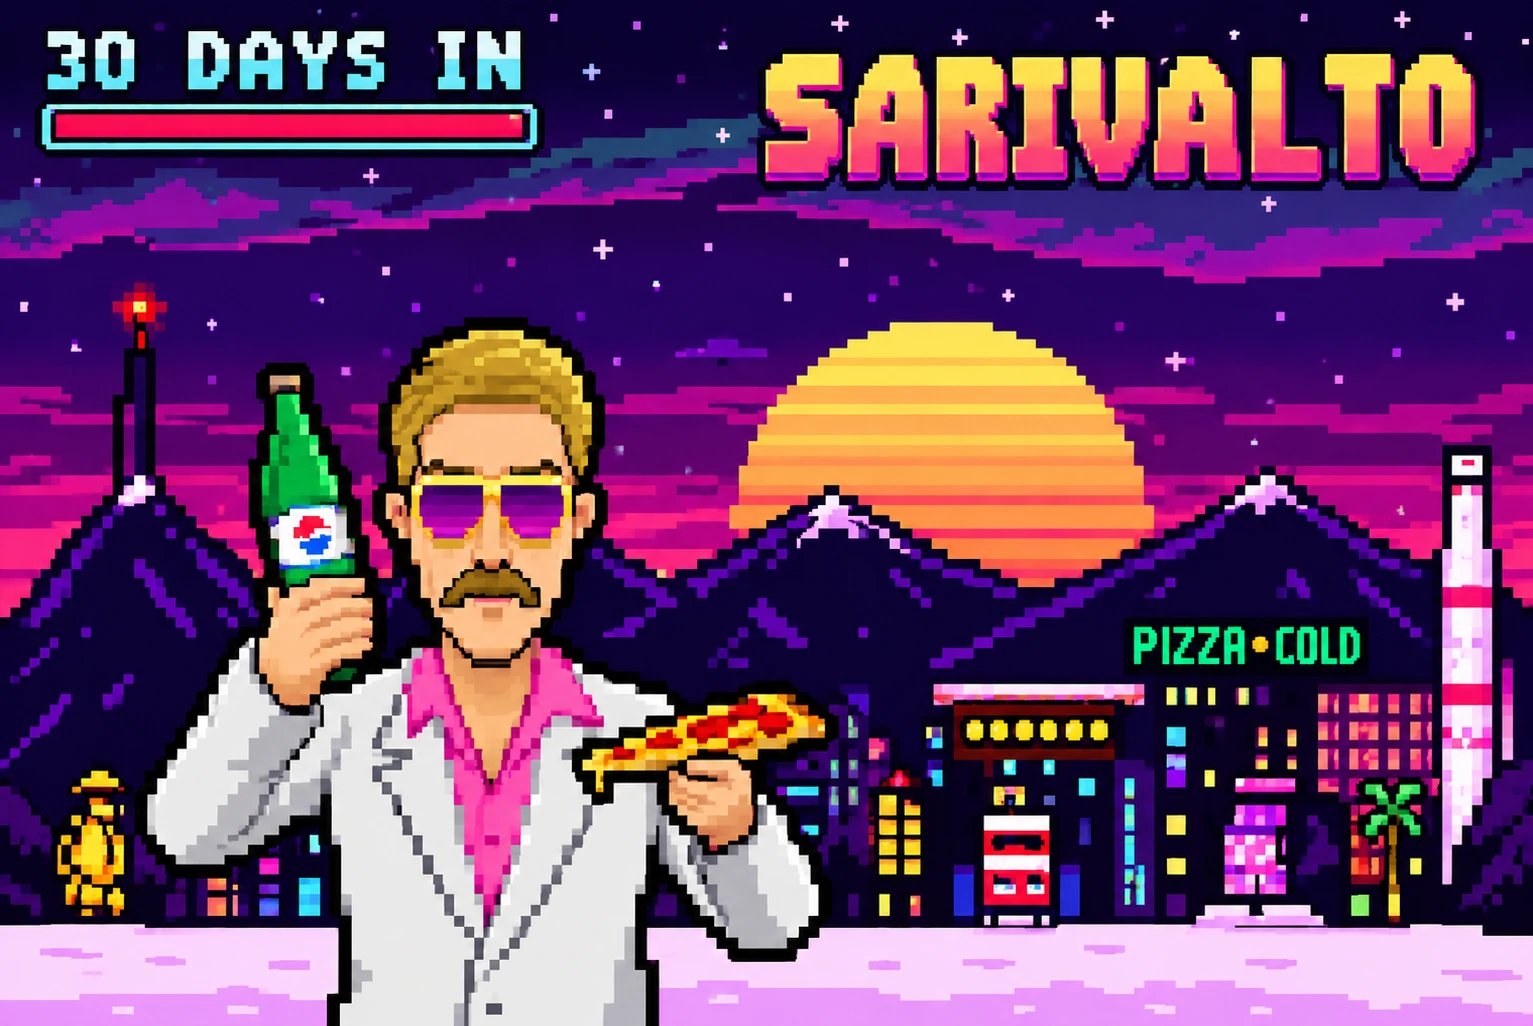
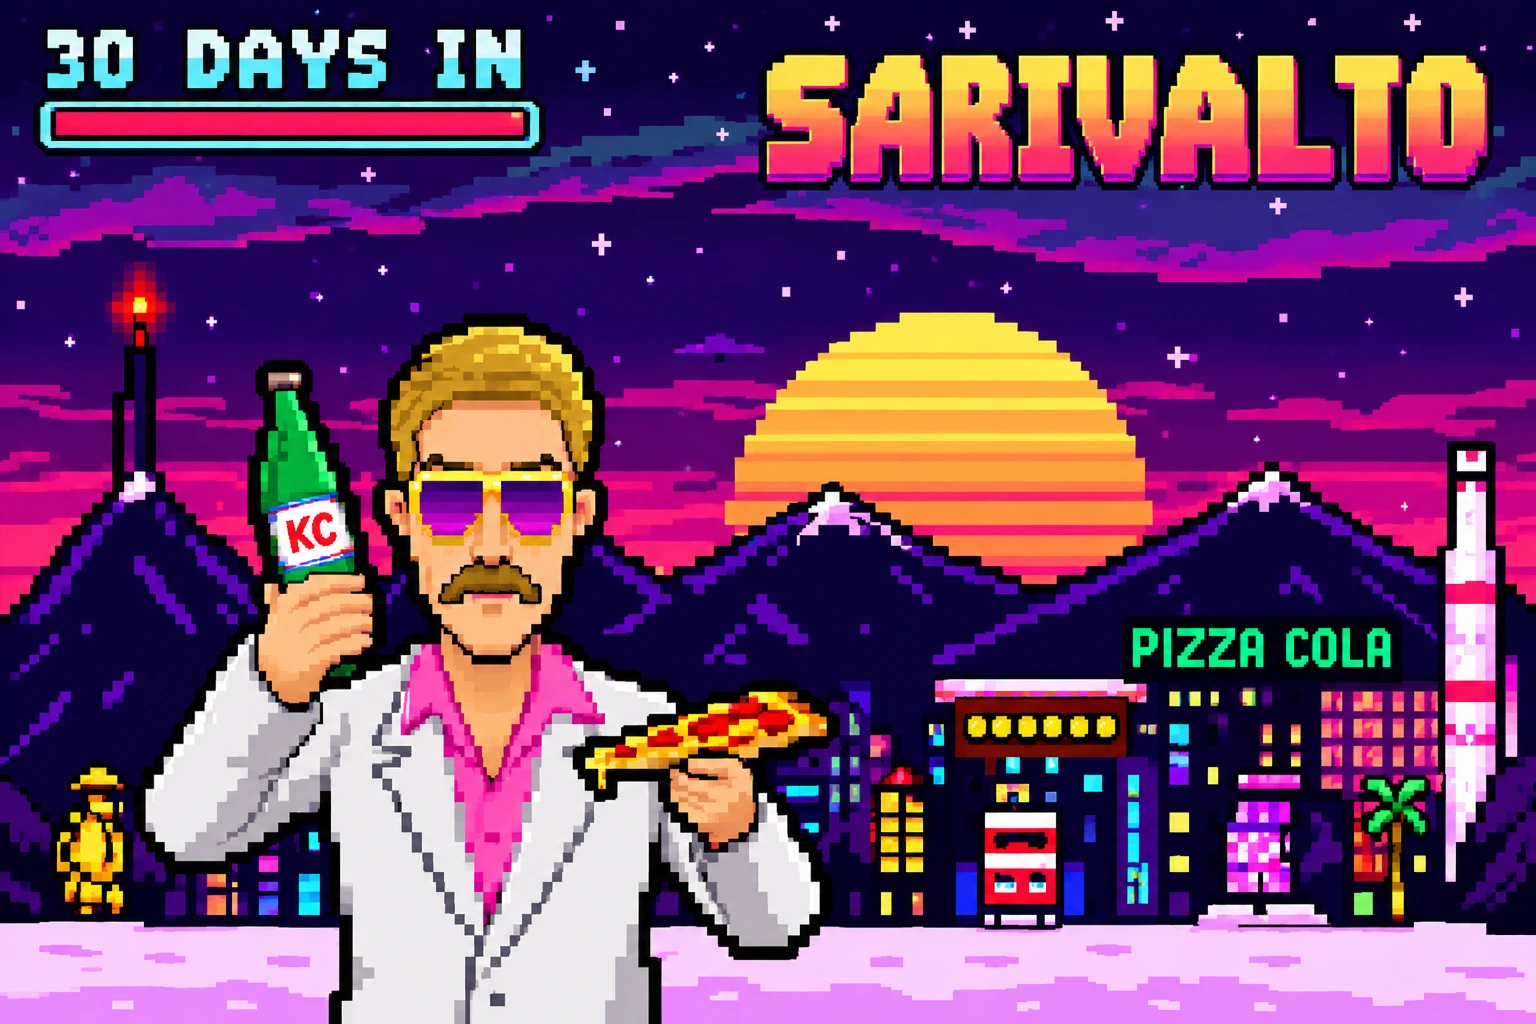
The radio set connects every time: after one call to Langley the tuning never started again, so reporting back to Chuck at the end of Meet the Communists couldn't get through. Once Meet the Communists is done, a tip in the quest news box explains waiting for the evening (sit at a table and press E),

diff --git a/js/data.js b/js/data.js
@@ -826,6 +826,7 @@ Dex:{stock:[['hotdog',30,1],['cola',20,1]]},
 //                        forge a card to match the recipe (that one needs the real card, and gives two forged cards)
 //   tour:name, price     pay that person for a tour, from CIA funds (the condition's chat is the tour; its first node's
 //                        options are made for you: pay, or not now)
+// tip: a note on how the game works, in the quest news box once the quest is complete (after Meet the Communists, how to wait for the evening).
 // note: a few words the wiki's Quests page adds to a step (a point given from its conversation, say).
 // tested: true once the quest has been played through and checked (the wiki's Quests page shows which are; none yet).
 // completed: true once the quest is finished, nothing left to add or fix (the Completed column on the wiki's Quests page).
@@ -1252,6 +1253,7 @@ meetreds:{title:'Meet the Communists',giver:'Chuck',main:true,day:1,given:true,s
       b:{say:"That's what I was afraid of. A true believer's harder to deal with than a man with a price. Good work. Get some sleep: tomorrow, Kingsgrad."},
       c:{say:"She's not wrong, but don't you tell her that. Good work. Get some sleep: tomorrow, Kingsgrad."}}}}],
   thanks:'Chuck has your report on the Communist Party.',
+  tip:"Today's main quest is done, so the day is yours: you can let it go by and wait for the evening. Sit at a table (in a bar, a café, a restaurant, the hotel, or the one in your room) and press E. Evenings are different: shops shut, people go home, The Midnight Note and Madame Zora open, and George at Langley takes over the radio, with jobs that need the dark. When you're done, go to your bed and press E to sleep through to the next morning, when there's a new main quest. (On a day with a main quest, you can't wait for the evening until it's done.)",
   chat:{start:'a',nodes:{
     a:{say:"Comrade! Not many come in from the cold to visit us. What brings you to the Party's door?",opts:[['I want to know what the Party stands for.','b'],["I heard about the king. Everyone's talking about it.",'c'],["I'm a journalist, from abroad.",'d']]},
     b:{say:'Bread, work and dignity for the people of Sarivalto. The king is dead, and the crown should be buried with him. This island should join the Soviet Union, as a Soviet republic, and belong to the fishermen, the mill hands and the women on the fish-plant line, not to the palace and the cola men.',opts:[['Join the Soviet Union?','e'],['Thank you for your time.',null]]},

diff --git a/js/game.js b/js/game.js
@@ -355,7 +355,8 @@ const signAhead=()=>{const[dx,dy]=DIR[P.dir],x=P.x+dx,y=P.y+dy;return snowBlocks
 function useExit(e){const b=EX[e.to].find(q=>q.to==P.m);P.m=e.to;[P.x,P.y]=inw(b);P.rx=P.x;P.ry=P.y;showHere(P.m)}
 function update(dt){
   if(RIDE){if(performance.now()-RIDE.t0>RIDE_DUR)arrive();return}if(MENU||START||BUSY||CONVO)return;
-  if(typeof needsTick=='function')needsTick(dt);
+  // (the meters wait too while the quest news box is up, as the game does)
+  if(typeof needsTick=='function'&&!newsUp())needsTick(dt);
   if(P.mv){const m=P.mv;m.t+=dt/.16;const k=Math.min(m.t,1);P.rx=m.fx+(m.tx-m.fx)*k;P.ry=m.fy+(m.ty-m.fy)*k;
     if(m.t>=1){P.mv=null;const e=exitHere();
       if(e&&!PRESS_DOORS.has(e.to)){if(isOpen(e.to))useExit(e);else note('The boat to '+NM[e.to]+" isn't running: the harbour there is snowed in.",4000)}
@@ -453,7 +454,7 @@ function meet(q,i,quiet){const Q=QUESTS[q.id];q.met[i]=true;if(Q.meet)setTimeout
   const C=Q.done[i];if(C.orChoice&&!q.choice)questChoice(q.id,C.orChoice);[C.takes||[]].flat().forEach(take);if(C.points)for(const f in C.points)addPoints(f,C.points[f]);if(C.flag){(q.flags??={})[C.flag]=true;for(const k in SC)delete SC[k]}(q.when??=[])[i]=DAY;
   const gv=[Q.done[i].gives||[]].flat().filter(id=>!qOf(id));gv.forEach(id=>ME.quests.push({id,met:[],done:false,took:DAY}));
   const gift=Q.done[i].gift;if(gift){const mine=has(gift);if(mine)mine.n++;else ME.items.push({id:gift,n:1})}
-  const gave=(gift?' You get the '+ITEMS[gift].name.toLowerCase()+'.':'')+gv.map(id=>(QUESTS[id].main?' New main quest: ':' New side quest: ')+QUESTS[id].title+'.').join('');if(Q.done.every((_,k)=>q.met[k])){q.done=true;q.day=DAY;questSay((quiet?'':Q.thanks+' ')+'Quest complete: '+Q.title+'.'+gave)}
+  const gave=(gift?' You get the '+ITEMS[gift].name.toLowerCase()+'.':'')+gv.map(id=>(QUESTS[id].main?' New main quest: ':' New side quest: ')+QUESTS[id].title+'.').join('');if(Q.done.every((_,k)=>q.met[k])){q.done=true;q.day=DAY;questSay((quiet?'':Q.thanks+' ')+'Quest complete: '+Q.title+'.'+gave);if(Q.tip)questSay(Q.tip)}
   else{const said=Q.done[i].said,left=Q.done.filter((_,k)=>!q.met[k]),next=!said&&(Q.seq||left.every(c=>c.last))?' Next: '+left[0].what.replace(/^./,c=>c.toLowerCase())+'.':'';
     questSay((said?said+' ':'')+'Quest updated: '+Q.title+'.'+next+gave)}}
 // something happening in the game (a tattoo, say) meets the conditions waiting for it

diff --git a/js/radiotune.js b/js/radiotune.js
@@ -38,7 +38,8 @@ function drawRadio(t){const c=startEl.querySelector('#radioc');if(!c)return;cons
   R('#3a3020',bx-4,96,bw+8,4);R('#ffd23a',bx-3,97,(bw+6)*Math.min(1,RT.ok?1:RT.hold/RT_HOLD),2)}
 function rtLoop(t){if(START!='radiotune'||RT.ok){rtQuiet();RT.raf=false;return}
   const dt=Math.min(.1,(t-RT.last)/1000);RT.last=t;
-  if(rtOn()){RT.hold+=dt;if(RT.hold>=RT_HOLD){RT.ok=true;RT.note='The carrier steadies, and a voice comes through the static: "Langley. Go ahead."';rtQuiet();renderStart();
+  // (connected: the loop stops here, so it's marked as not running, or the next call's tuning would never start it again)
+  if(rtOn()){RT.hold+=dt;if(RT.hold>=RT_HOLD){RT.ok=true;RT.raf=false;RT.note='The carrier steadies, and a voice comes through the static: "Langley. Go ahead."';rtQuiet();renderStart();
     setTimeout(()=>{if(START=='radiotune')closeStart();RT.then?.()},1100);return}}
   else RT.hold=Math.max(0,RT.hold-dt*2);
   rtSound(rtSig());drawRadio(t);requestAnimationFrame(rtLoop)}
